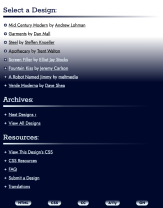
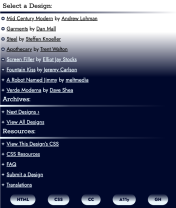
updated images and css

diff --git a/index.html b/index.html
@@ -53,7 +53,7 @@
 <body id="css-zen-garden">
 	<div class="page-wrapper">
 
-    <header >
+    <header>
 	  <h1>CSS Zen Garden</h1>
 	  <h2>The Beauty of <abbr title="Cascading Style Sheets">CSS</abbr> Design</h2>
 	  <div class="summary" id="zen-summary" >
@@ -61,17 +61,18 @@
 		<p>Download the example <a href="/examples/index" title="This page's source HTML code, not to be modified.">html file</a> and <a href="/examples/style.css" title="This page's sample CSS, the file you may modify.">css file</a></p>
 	  </div>
 	</header>
-	<section class="intro" id="zen-intro">
-		<article class="preamble" id="zen-preamble" >
-			<h3>The Road to Enlightenment</h3>
+	<main>
+  	  <section class="intro" id="zen-intro">
+	  	  <article class="preamble" id="zen-preamble" >
+		 	<h3>The Road to Enlightenment</h3>
 			<p>Littering a dark and dreary road lay the past relics of browser-specific tags, incompatible <abbr title="Document Object Model">DOM</abbr>s, broken <abbr title="Cascading Style Sheets">CSS</abbr> support, and abandoned browsers.</p>
 			<p>We must clear the mind of the past. Web enlightenment has been achieved thanks to the tireless efforts of folk like the <abbr title="World Wide Web Consortium">W3C</abbr>, <abbr title="Web Standards Project">WaSP</abbr>, and the major browser creators.</p>
 			<p>The CSS Zen Garden invites you to relax and meditate on the important lessons of the masters. Begin to see with clarity. Learn to use the time-honored techniques in new and invigorating fashion. Become one with the web.</p>
-		</article>
-	</section>
+		  </article>
+	  </section>
 
-	<section class="main supporting" id="zen-supporting" >
-		<article class="explanation" id="zen-explanation" >
+	  <section class="main supporting" id="zen-supporting" >
+	 	<article class="explanation" id="zen-explanation" >
 			<h3>So What is This About?</h3>
 			<p>There is a continuing need to show the power of <abbr title="Cascading Style Sheets">CSS</abbr>. The Zen Garden aims to excite, inspire, and encourage participation. To begin, view some of the existing designs in the list. Clicking on any one will load the style sheet into this very page. The <abbr title="HyperText Markup Language">HTML</abbr> remains the same, the only thing that has changed is the external <abbr title="Cascading Style Sheets">CSS</abbr> file. Yes, really.</p>
 			<p><abbr title="Cascading Style Sheets">CSS</abbr> allows complete and total control over the style of a hypertext document. The only way this can be illustrated in a way that gets people excited is by demonstrating what it can truly be, once the reins are placed in the hands of those able to create beauty from structure. Designers and coders alike have contributed to the beauty of the web; we can always push it further.</p>
@@ -97,10 +98,8 @@
 			<p>This is a learning exercise as well as a demonstration. You retain full copyright on your graphics (with limited exceptions, see <a href="/pages/submit/guidelines/">submission guidelines</a>), but we ask you release your <abbr title="Cascading Style Sheets">CSS</abbr> under a Creative Commons license identical to the <a href="http://creativecommons.org/licenses/by-nc-sa/3.0/" title="View the Zen Garden's license information.">one on this site</a> so that others may learn from your work.</p>
 			<p>By <a href="http://www.mezzoblue.com/">Dave Shea</a>. Bandwidth graciously donated by <a href="http://www.mediatemple.net/">mediatemple</a>. Now available: <a href="http://www.amazon.com/exec/obidos/ASIN/0321303474/mezzoblue-20/">Zen Garden, the book</a>.</p>
 		</article>
-
-
-
-	</section>
+	  </section>
+	</main>
 	<footer>
 		<a href="http://validator.w3.org/check/referer" title="Check the validity of this site&#8217;s HTML" class="zen-validate-html">HTML</a>
 		<a href="http://jigsaw.w3.org/css-validator/check/referer" title="Check the validity of this site&#8217;s CSS" class="zen-validate-css">CSS</a>
@@ -112,7 +111,7 @@
 	<aside class="sidebar" >
 		<div class="wrapper">
 
-			<div class="design-selection" id="design-selection">
+			<section class="design-selection" id="design-selection">
 				<h3 class="select">Select a Design:</h3>
 				<nav >
 					<ul>
@@ -134,9 +133,9 @@
 						<a href="/214/" class="design-name">Verde Moderna</a> by						<a href="http://www.mezzoblue.com/" class="designer-name">Dave Shea</a>
 					</li>					</ul>
 				</nav>
-			</div>
+			</section>
 
-			<div class="design-archives" id="design-archives">
+			<section class="design-archives" id="design-archives">
 				<h3 class="archives">Archives:</h3>
 				<nav >
 					<ul>
@@ -151,9 +150,9 @@
 						</li>
 					</ul>
 				</nav>
-			</div>
+			</section>
 
-			<div class="zen-resources" id="zen-resources">
+			<section class="zen-resources" id="zen-resources">
 				<h3 class="resources">Resources:</h3>
 				<ul>
 					<li class="view-css">
@@ -177,7 +176,7 @@
 							Translations						</a>
 					</li>
 				</ul>
-			</div>
+			</section>
 		</div>
 	</aside>
 

diff --git a/styles.css b/styles.css
@@ -70,15 +70,22 @@ a{
 	padding-inline: 2px;
 }
 
-.summary > p > a:hover, .participation > p > a:hover, .requirements > p > a:hover{
+.summary > p > a:hover, 
+.participation > p > a:hover, 
+.requirements > p > a:hover
+.summary > p > a:focus, 
+.participation > p > a:focus, 
+.requirements > p > a:focus{
 	border-bottom-width: 2px;
 	border-bottom-style: solid; 
 	border-image: repeating-linear-gradient(90deg, #00072D 10%, rgba(236, 248, 254, 0.00) 100%) 10;
 }
 
-.requirements > p:nth-child(5) > a:nth-child(1), .requirements > p:nth-child(6) > a:nth-child(3){
+.requirements > p:nth-child(5) > a:nth-child(1), 
+.requirements > p:nth-child(6) > a:nth-child(3){
 	border-image: repeating-linear-gradient(90deg, #00072D 10%, rgba(236, 248, 254, 0.00) 100%) 15;
 }
+
 
 li{
 	margin: 0 0 0 25px;
@@ -127,23 +134,19 @@ li{
 
 /*--header styles--*/
 header { 
+	background: #00072D;
 	background: var(--main-gradient);
 	margin: 0;
-}
-
-header{
-	grid-area: header;
+		grid-area: header;
 }
 
 header h1 { 
 	color: #ECF8FE;
-/*	text-shadow: 0px 2px 1px rgba(236, 248, 254, 0.25); */
 	font-weight: 400;
 	text-align: center;
 	padding: 15px 0 20px;
 	font-size: var(--fs-800);
 	font-family: var(--font-heading);
-	font-weight: 400;
 }
 
 header h2 { 
@@ -230,7 +233,6 @@ aside{
 	color: var(--font-dark);
 	padding: 0 0 15px 0;
 	font-family: var(--font-heading);
-	font-weight: 400;
 	font-size: var(--fs-700);
 }
 
@@ -262,9 +264,18 @@ nav > ul > li, .zen-resources > ul > li{
 	padding: 5px 0;
 }
 
+.select, .archives, .resources{
+	font-size: var(--fs-500);
+	font-family: var(--font-heading);
+	font-weight: 400;
+	text-indent: 10px;
+}
+
+
 .design-selection li:nth-child(5), .design-selection li:nth-child(6), .design-selection li:nth-child(7), .design-selection li:nth-child(8){
 	color: var(--font-light);
 }
+
 
 .design-archives{
 	color: var(--font-light);
@@ -272,6 +283,10 @@ nav > ul > li, .zen-resources > ul > li{
 
 .zen-resources{
 	color: var(--font-light);
+}
+
+.zen-resources, .select{
+	font-family: var(--font-heading);
 }
 /*--end aside styles--*/
 
@@ -286,12 +301,12 @@ footer {
 }
 
 footer a{
-	margin: 15px 5px 20px;
+	margin: 15px 7px 20px;
 	color: var(--font-dark);
 	font-family: var(--font-main);
 	font-weight: 800;
 	background: var(--btn-gradient);
-	padding: 2px 14px;
+	padding: 10px 25px;
 	border-radius: 50px;
 }
 /*--end footer styles--*/
@@ -325,6 +340,15 @@ footer a{
 		background: linear-gradient(360deg, rgba(236, 248, 254, 0.10) 30%, rgba(0, 7, 45, 0.10) 100%);
 	}
 
+	main{
+		background: var(--alt-light);
+		border-top-right-radius: 15px;
+		border-top-left-radius: 15px;
+		margin: 0 auto;
+		padding: 0 15px; 
+	}
+
+
 	.summary{
 		margin-bottom: 25px;
 	}
@@ -341,7 +365,7 @@ footer a{
 
 	.summary > p > a:hover{
 		border-image: none;
-		border-bottom-color: red;
+		border-bottom-color: var(--font-light);
 		border-image: repeating-linear-gradient(90deg, #ECF8FE 0%, rgba(166, 176, 192, 0.30) 39.12%, #00072D 93.23%) 10;
 	}
 
@@ -353,8 +377,8 @@ footer a{
 		padding-inline: 50px;
 		font-size: var(--fs-300);
 	}
-	
-	.page-wrapper > section, .page-wrapper > aside, .page-wrapper > footer{
+  
+   .page-wrapper > aside, .page-wrapper > footer{
 		background: var(--alt-light);
 		margin: 0 auto;
 		padding: 0 15px; 
@@ -439,6 +463,10 @@ footer a{
 		margin: 0;
 		padding: 0;
 	}
+
+	.zen-resources, .design-archives{
+	    color: var(--font-main);
+    } 
 
 	.archives::after{
 		content: "";
@@ -553,6 +581,11 @@ footer a{
 		max-width: 1200px;
 	}
 
+	main{
+		margin: 0 15px 0 0;
+		width: 90%;
+	}
+
 	footer{
 	  grid-area: footer;
 	}
@@ -563,6 +596,10 @@ footer a{
 
 	aside{
 	  grid-area: aside;
+	}
+
+	.select, .resources{
+		color: var(--font-light);
 	}
 
 	.summary{
@@ -580,11 +617,6 @@ footer a{
 	.requirements > p:last-child > a{
 		font-style: italic;
 		background: none;
-	}
-
-	.page-wrapper > section{
-		margin: 0 15px 0 0;
-		width: 90%;
 	}
 
 	section > article > h3{
@@ -662,8 +694,19 @@ footer a{
 		font-size: var(--fs-300);
 		font-weight: 500;
 		letter-spacing: 2px;
-		text-underline-offset: 5px;
 		padding-bottom: 15px;
+	}
+
+    .design-archives > nav > ul > li > a{
+    	text-decoration: none;
+    }
+	
+	.design-archives > nav > ul > li > a:hover{
+		border-image: none;
+		border-bottom-width: 2px;
+		border-bottom-style: solid;
+		border-image: repeating-linear-gradient(90deg, #ECF8FE 0%, rgba(166, 176, 192, 0.30) 75.12%, #00072D 93.23%) 12;
+
 	}
 
 	.design-selection > nav > ul > li{
@@ -671,11 +714,9 @@ footer a{
 		font-weight: 200;
 		letter-spacing: 1px;
 		line-height: 1.4;
+
 	}
 
-	.design-selection > nav > ul > li > a{
-		text-decoration: none;
-	}
 
 	.design-selection > nav > ul > li > a:first-child{
 		font-weight: 500;

diff --git a/README.md b/README.md
@@ -1,5 +1,6 @@
-CSS Zen Garden 
-# My Take on CSS Zen Garden
+# CSS Zen Garden 
+
+## My Take on CSS Zen Garden
 
 ## Table of Contents
 [Introduction](#Introduction)
@@ -24,7 +25,7 @@ CSS Zen Garden is a place on the web to show the power of CSS. It shows can CSS 
 
 ## Motivation
 
-I was motivated to create a design to challenge my own CSS skills and creativity to create something new. Since this project was created several years ago CSS has changed, I took this challenge as a way to practice my design skills for as many browsers and versions of browsers as possible. Also designing fall backs for elements that are not widely supported.
+I was motivated to create a design to challenge my own CSS skills and creativity to create something new. Since this project was created several years ago CSS has changed, I took this challenge as a way to practice my design skills for as many browsers and versions of browsers as possible. 
 
 ## Design
 
@@ -63,6 +64,8 @@ End of web page <br />
 ## HTML Changes
 
 One constraint is not to change the HTML of this project, one of my goals was to make this site accessible. Given when this project was created, practices around accessibility and designing for accessibility have expanded to make websites accessible to all users. The only changes I made to the HTML was to make the site more accessible for users. I removed the header and footer elements from the div they were nested in to create landmarks for users that use screen readers.
+
+Another change I made was to use semantic HTML. I looked through the HTML file, seeing where there was a div tag used if a semantic HTML element would fit, and then I changed it. I used elements such as section and article. I also created a main element with the main content for the web page. It helps define the semantic structure of the web page, making it more accessible for users. 
 
 ## What I Learned
 Part of the challenge is not to alter the HTML. That means not just adding a class or id to a tag. I used a variety of selector combinations including child, sibling, as well as using CSS to create pseudo elements. I was able to practice using different combinations of CSS selectors to select one or more child elements while not selecting other similar  child elements to apply styles to.
